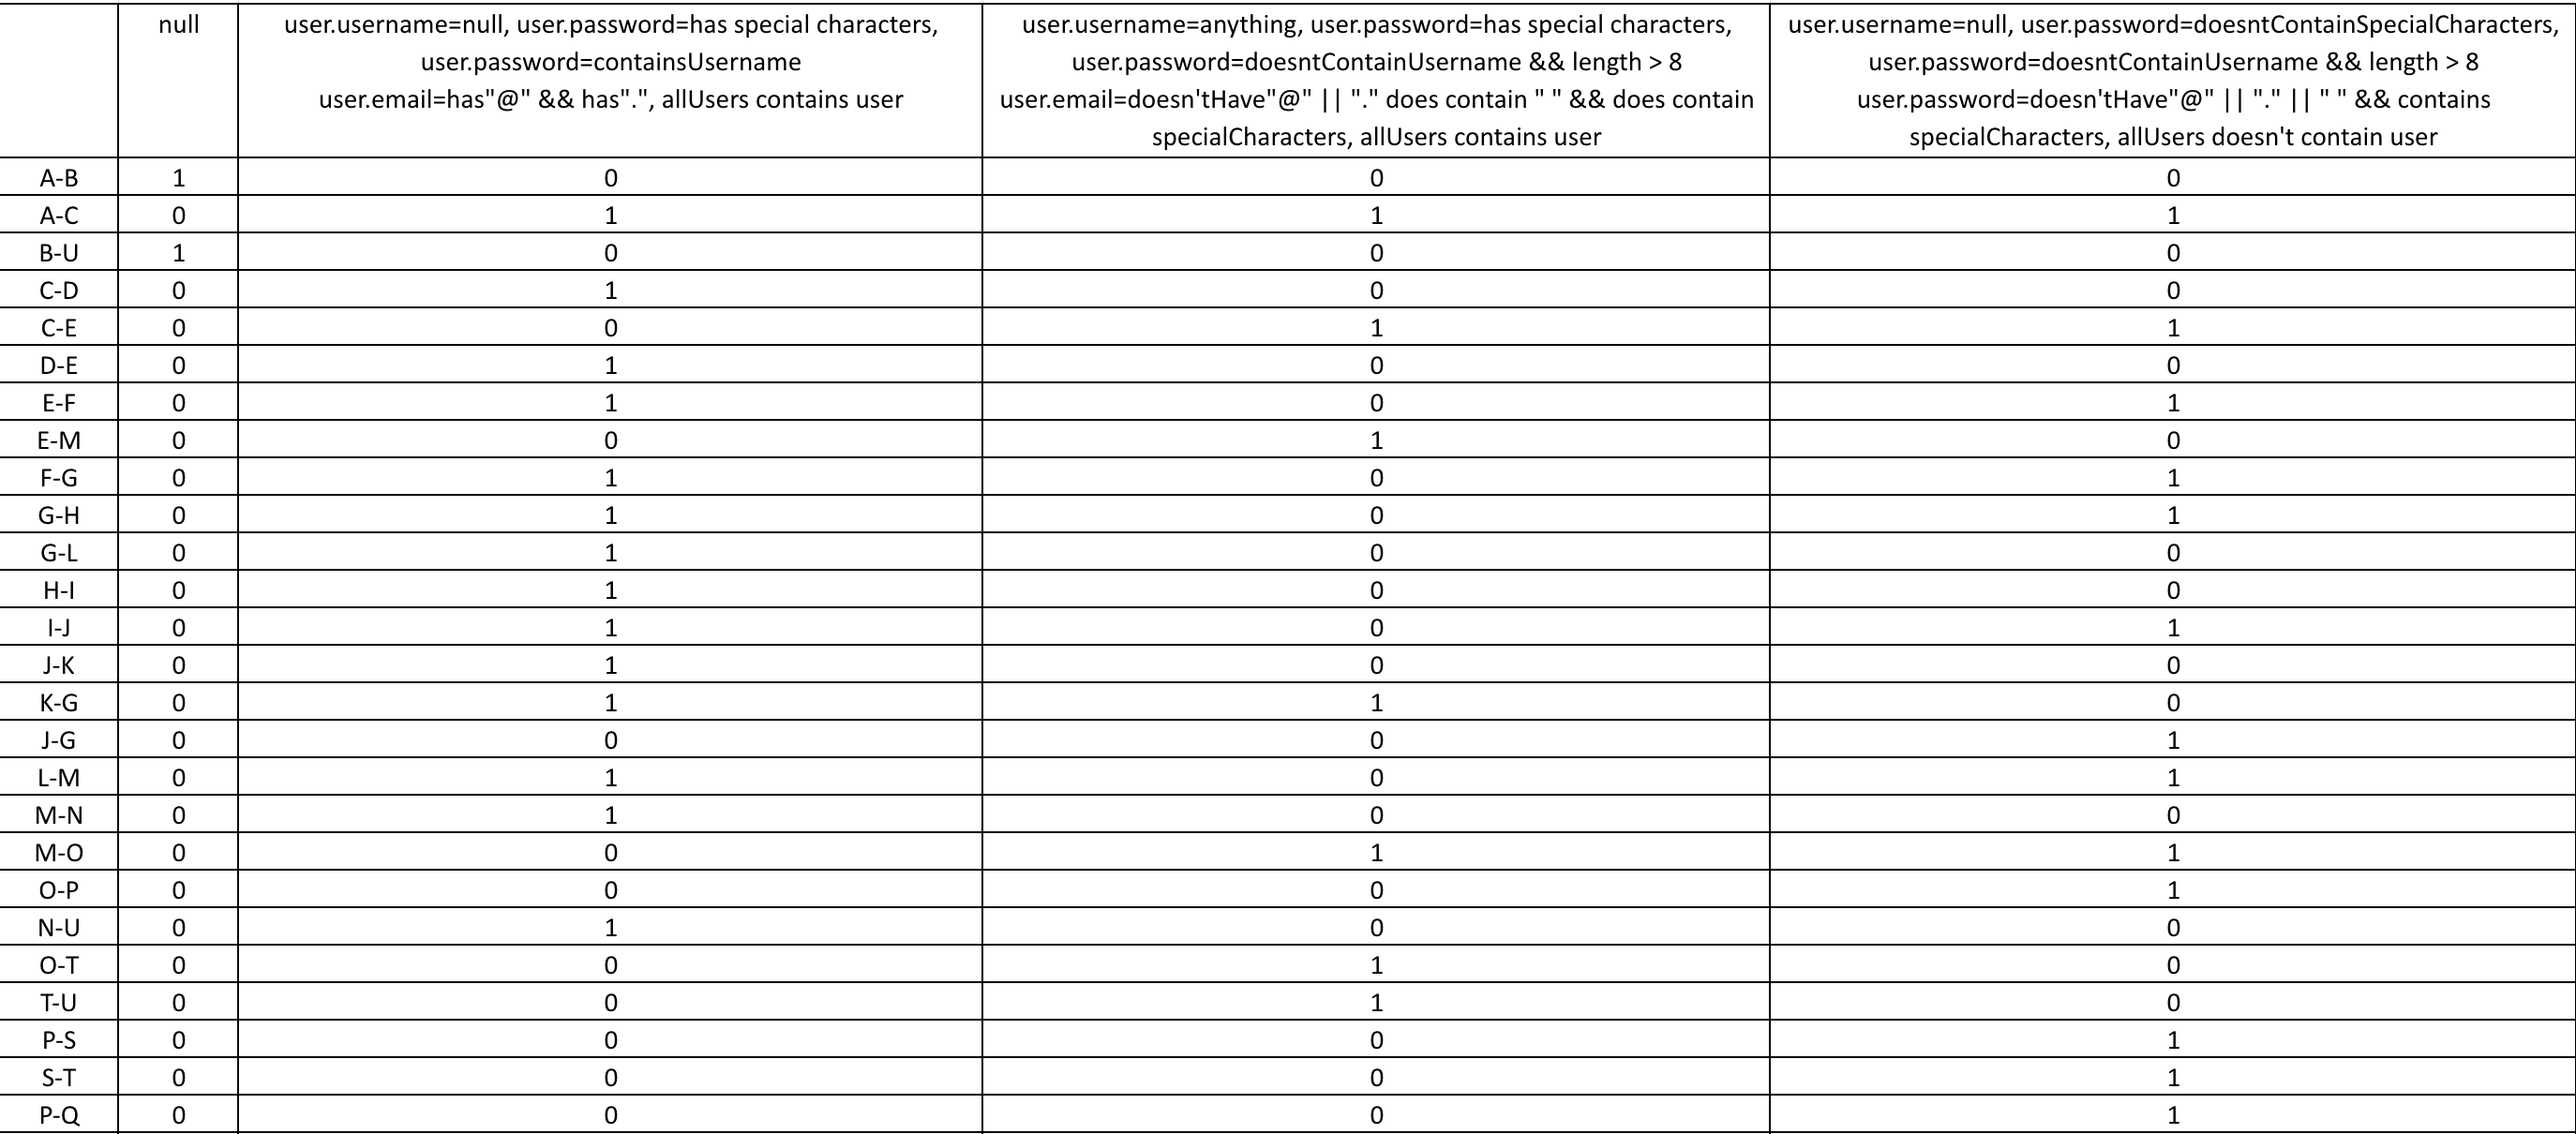
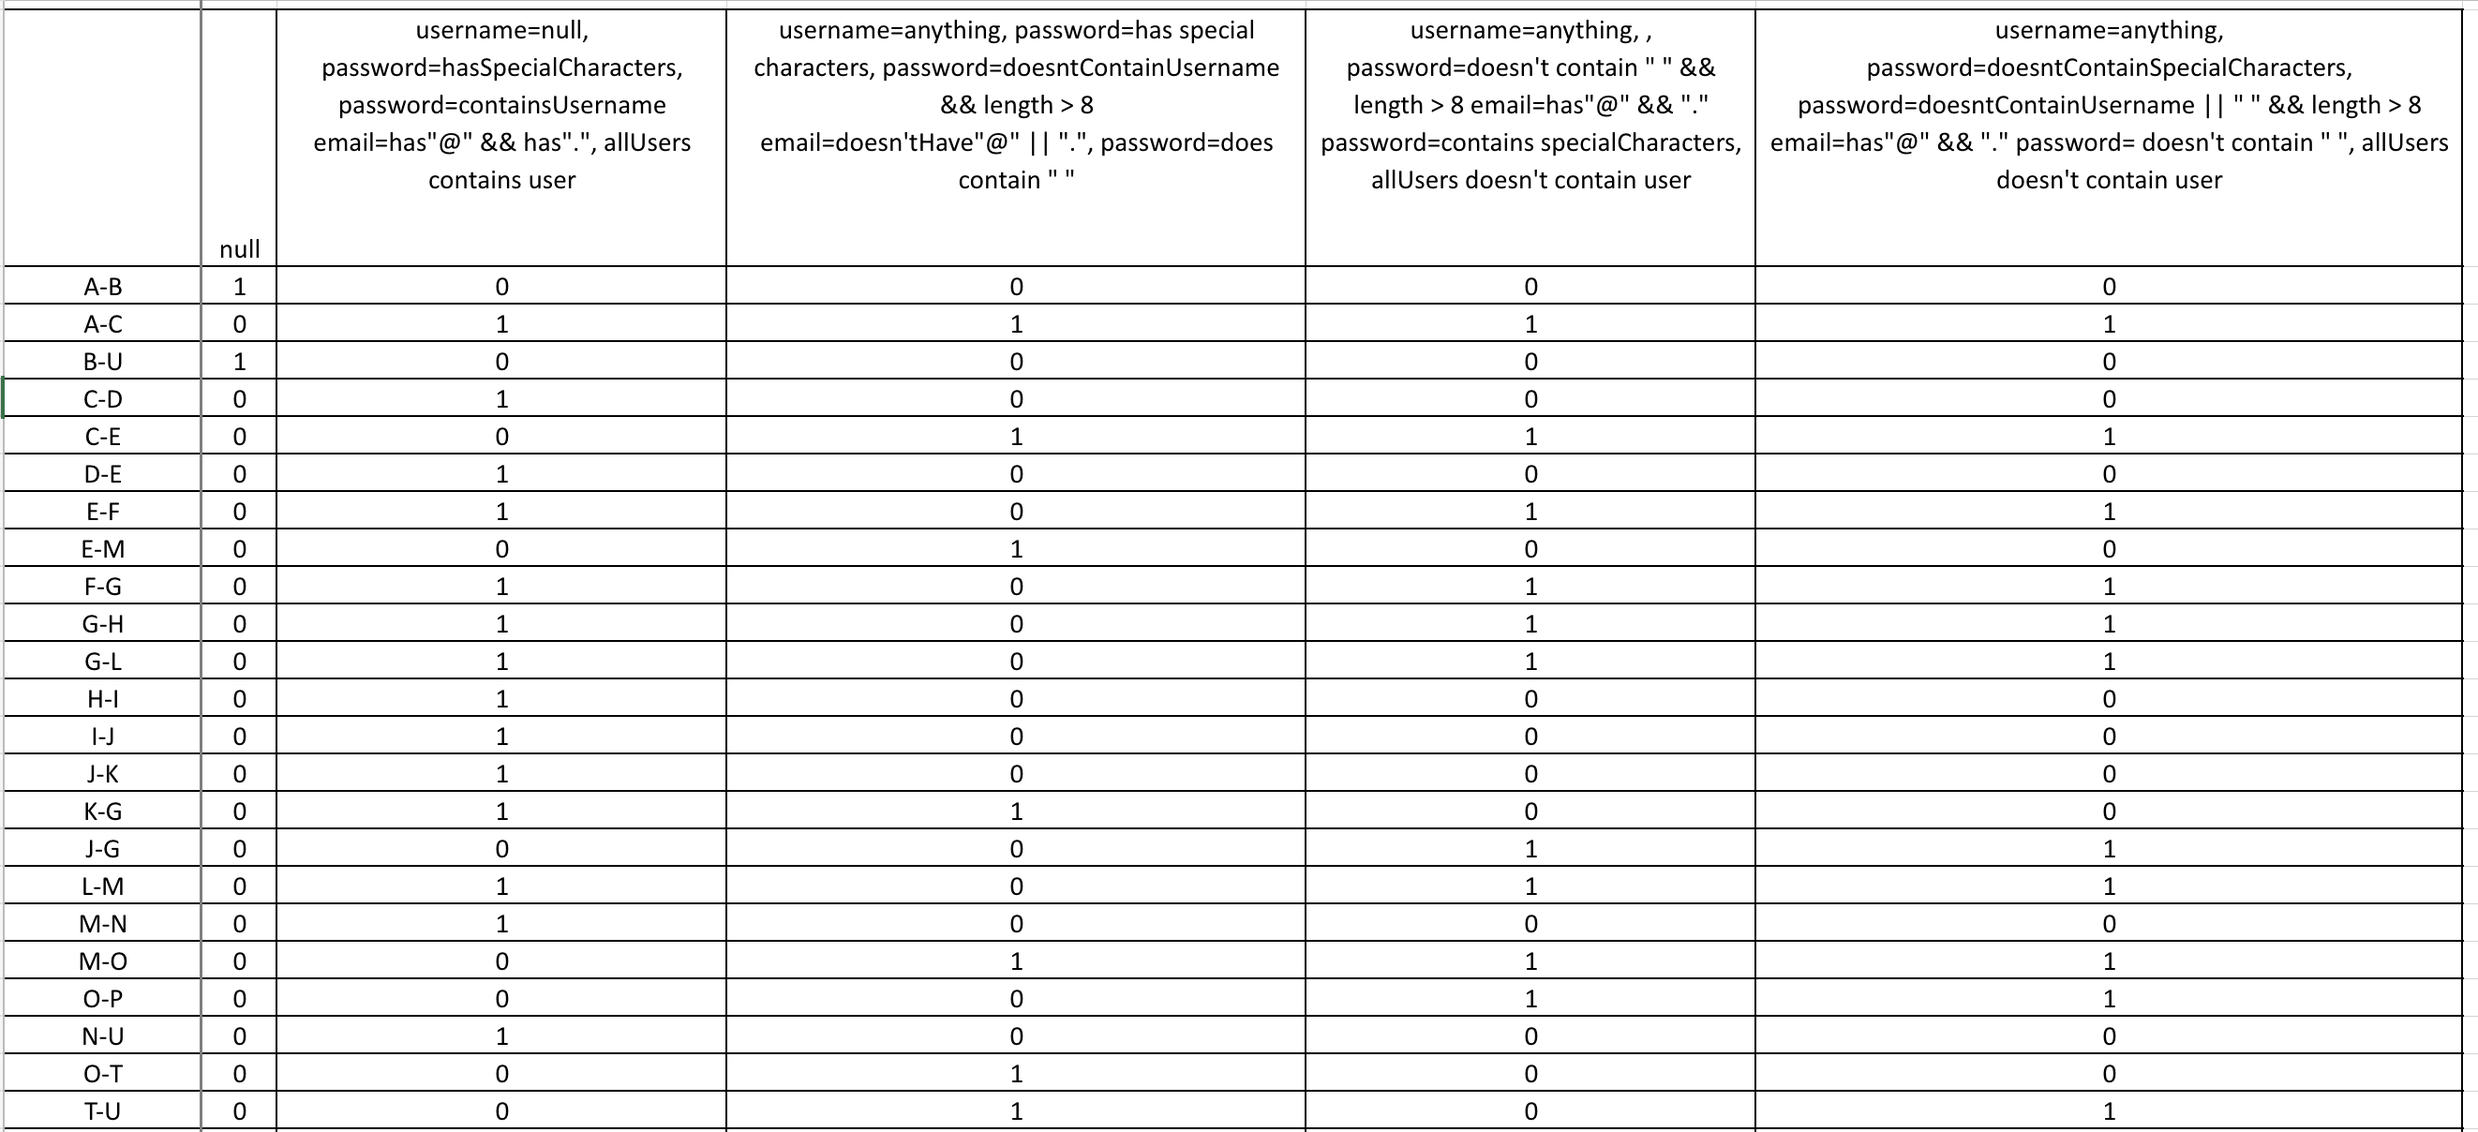
fix

Changed region(s): [[0.0, 0.0, 1.0, 1.0]]

diff --git a/src/test/java/SILab2Test.java b/src/test/java/SILab2Test.java
@@ -21,6 +21,8 @@ public class SILab2Test {
         assertFalse(SILab2.function(new User(null, "!asdasd", "dimi@example.com"), users));
         //A-C-E-M-O-T-U
         assertFalse(SILab2.function(new User("backo", "!asdasdas dasdw2dw", "dimi2examplecom"), users));
+        //A-C-E-F-G-H-J-G-L-M-O-P-Q-P-S-T-U
+        assertFalse(SILab2.function(new User("backo", "asdasdasdasdw2dw", "dimi2@example.com"), users));
         //A-C-D-E-F-G-H-J-G-L-M-O-P-Q-R-U
         assertTrue(SILab2.function(new User("backo", "!asdasdasdasdw2dw", "dimi3@example.com"), users));
     }
